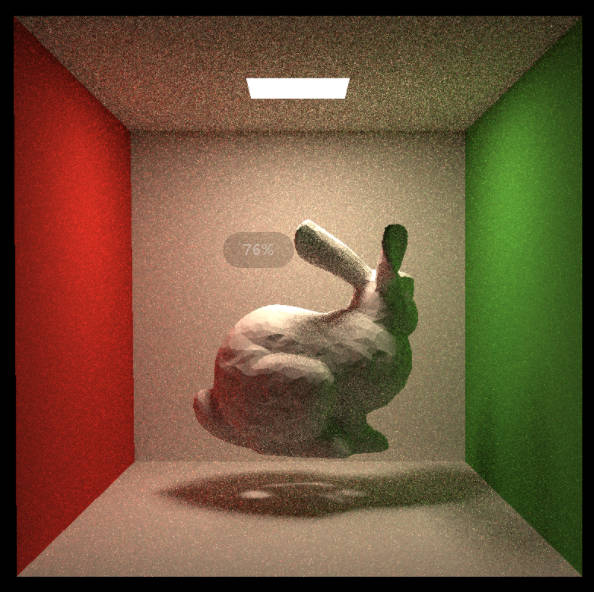
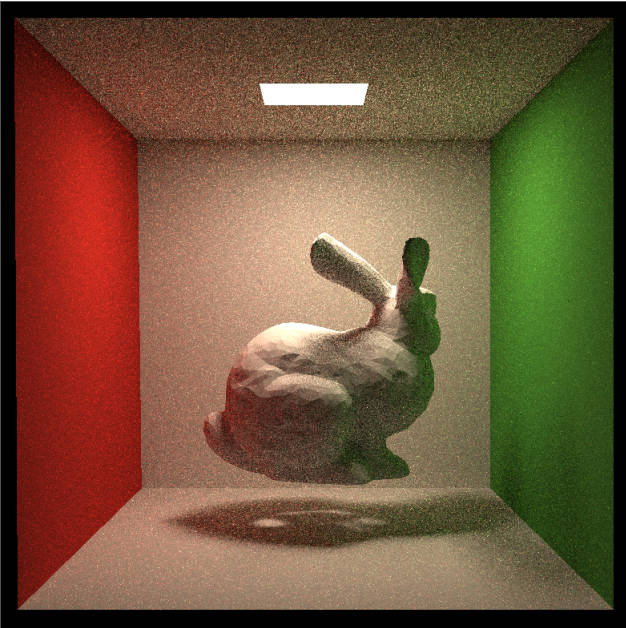
games101第17课和18课开头

diff --git a/_posts/2023-07-26-GAMES101-Lecture 17 Materials and AppearancesGAMES101-Lecture 17 Materials and Appearances.md b/_posts/2023-07-26-GAMES101-Lecture 17 Materials and AppearancesGAMES101-Lecture 17 Materials and Appearances.md
@@ -1,0 +1,184 @@
+---
+title: GAMES101-Lecture 17 Materials and Appearances
+date: 2023-07-26 11:30:00 +0800
+categories: [Computer Graphics, GAMES101]
+tags: [图形学, 学习笔记]
+
+pin: false
+author: 
+    name: CALL1CE
+    link: https://space.bilibili.com/9330604
+toc: true
+comments: true
+math: true
+mermaid: true
+
+---
+
+## Material == BRDF
+
+* 材质就是：一个表面怎么被反射的
+
+[![pCjNktO.jpg](https://s1.ax1x.com/2023/07/26/pCjNktO.jpg)](https://imgse.com/i/pCjNktO)
+
+### Diffuse/Lambertian Material
+
+* 满足能量守恒，假设一个着色点均匀地吸收多少能量就均匀地发出多少能量即radiance==irradiance
+
+* 然后经过推导，算出BRDF也就是f_r是$1/\pi$，这就是不吸收任何能量的BRDF
+
+* 我们设定一个变量$\rho$为albedo反射率，范围是[0,1]
+
+
+
+### Glossy Material
+
+* 金属类的材质，不会均匀反射而是往一个大致方向反射
+
+[![pCjNFAK.jpg](https://s1.ax1x.com/2023/07/26/pCjNFAK.jpg)](https://imgse.com/i/pCjNFAK)
+
+### Perfect Specular Reflection
+
+* 完美反射
+
+* 方位角差$\pi$
+
+[![pCjN9n1.jpg](https://s1.ax1x.com/2023/07/26/pCjN9n1.jpg)](https://imgse.com/i/pCjN9n1)
+
+### Specular Refraction - Snell's Law
+
+[![pCjNP76.jpg](https://s1.ax1x.com/2023/07/26/pCjNP76.jpg)](https://imgse.com/i/pCjNP76)
+
+* 折射定律
+
+* 根据折射率可以算出折射角
+
+* 方位角差$\pi$
+
+* 当入射的介质折射率大于折射的介质折射率就可能会出现没有折射，那么就是全反射
+
+[![pCjNSXR.jpg](https://s1.ax1x.com/2023/07/26/pCjNSXR.jpg)](https://imgse.com/i/pCjNSXR)
+
+* 反射(BRDF)和折射(BTDF)可以统称BSDF，S代表的是散射
+
+### Fresnel Reflection/Term(菲涅尔项)
+
+[![pCjNC0x.jpg](https://s1.ax1x.com/2023/07/26/pCjNC0x.jpg)](https://imgse.com/i/pCjNC0x)
+
+* 入射光和物体表面法线的夹角越大，越多的光被反射，夹角越小，越多的光被折射而很少被反射
+  
+  * 比如一个实际的例子，在车里，后排乘客看前车玻璃看到的是车内司机，看后车玻璃看到的是车外景
+
+[![pCjtzc9.jpg](https://s1.ax1x.com/2023/07/26/pCjtzc9.jpg)](https://imgse.com/i/pCjtzc9)
+
+* 极化现象，但一般光是由s极化和p极化组成的（也叫s偏振和p偏振）
+
+* 但对于导体而言，菲涅尔项不管角度如何都是很高的，也就是反射的光很多，这也是为什么会古代用铜和银做镜子
+
+[![pCjQLDS.jpg](https://s1.ax1x.com/2023/07/26/pCjQLDS.jpg)](https://imgse.com/i/pCjQLDS)
+
+* 菲涅尔项公式，n1入射介质系数（折射率），n2折射介质系数，但公式太复杂，所以有了下面的简化公式
+
+[![pCjQqu8.jpg](https://s1.ax1x.com/2023/07/26/pCjQqu8.jpg)](https://imgse.com/i/pCjQqu8)
+
+* Schlick's approximation：主旨就是拟合一条曲线，从一个值到1，绝缘体就从很小的数比如0开始，导体就从比较大的数开始，比如0.9，正常情况下，是个不错的近似
+  
+  * 导体的折射率是负数，所以还要一个k系数
+
+## Microfacet Material(PBR)
+
+* 当我们距离很远看一个物体表面时，很多微小的东西就看不到，最终能看到的是，表面对光的一个总体作用
+
+* 每一个微表面理解成一个微小的镜面
+
+* 也就是说，微表面模型，从远处看是材质外观，从近处看是几何
+
+[![pCjQHjf.jpg](https://s1.ax1x.com/2023/07/26/pCjQHjf.jpg)](https://imgse.com/i/pCjQHjf)
+
+### Microfacet BRDF
+
+* 对于glossy材质，比较平，法线基本都朝上，所以法线会宏观得聚集在向上的一个小范围
+
+* 对于diffuse材质，法线在方向上散的就比较开，所以分布范围就很广
+
+[![pCjQ7gP.jpg](https://s1.ax1x.com/2023/07/26/pCjQ7gP.jpg)](https://imgse.com/i/pCjQ7gP)
+
+* BRDF:
+  
+  * F(Fresnel term)：首先考虑一个菲涅尔项（也就是说能反射多少光出来）
+  
+  * D(distribution of normals)：法线分布，就是解决，有多少微表面能把光从wi反射到wo，因为只有微表面的法线方向和半程向量一致时，才会反射（把微表面当成镜子），所以就是D(h)，在h方向上法线分布的一个查询
+  
+  * G(shadowing-masking term)：自阴影，有一些微表面被另一些微表面挡住了，而失去了它们反射光的作用，在入射光几乎是平着打在平面上时，最容易发生这个现象，我们称这个角度为**grazing angle**
+
+[![pCjQT3t.jpg](https://s1.ax1x.com/2023/07/26/pCjQT3t.jpg)](https://imgse.com/i/pCjQT3t)
+
+* 微表面模型问题：diffuse项很少，有时人们要认为添加一些漫反射
+
+* 有很多微表面模型
+
+## Isotropic(各向同性)/Anisotropic(各向异性) Materials(BRDFs)
+
+* 各向同性：微表面并不存在一定的方向性，或者方向性很弱
+
+* 各向异性：微表面有方向性
+
+[![pCjQo9I.jpg](https://s1.ax1x.com/2023/07/26/pCjQo9I.jpg)](https://imgse.com/i/pCjQo9I)
+
+* 各向异性定义：如果入射出射角不变，只有方位角旋转，看到的BRDF不一样那就是各向异性的材质，反之如果一样就是各向同性的材质
+
+[![pCjQ54A.jpg](https://s1.ax1x.com/2023/07/26/pCjQ54A.jpg)](https://imgse.com/i/pCjQ54A)
+
+### Anisotropic Brushed Metal
+
+[![pCjQWHe.jpg](https://s1.ax1x.com/2023/07/26/pCjQWHe.jpg)](https://imgse.com/i/pCjQWHe)
+
+### Anisotropic BRDF: Nylon
+
+[![pCjQhAH.jpg](https://s1.ax1x.com/2023/07/26/pCjQhAH.jpg)](https://imgse.com/i/pCjQhAH)
+
+### Anisotropic BRDF: Velvet
+
+[![pCjQ4Nd.jpg](https://s1.ax1x.com/2023/07/26/pCjQ4Nd.jpg)](https://imgse.com/i/pCjQ4Nd)
+
+## Properties of BRDFs
+
+* 非负，他表示的是能量的分布
+
+* 线性分布，可以拆成很多块，然后加起来
+
+* 可逆性，入射方向和出射方向调换得到的brdf一模一样
+
+* 能量守恒，能量不可能变多
+
+* 各向同性和各向异性
+  
+  * 如果是各项同性的材质，维度降低了一维
+
+[![pCjQy1x.jpg](https://s1.ax1x.com/2023/07/26/pCjQy1x.jpg)](https://imgse.com/i/pCjQy1x)
+
+## Measuring BRDFs
+
+### Image-Based gonioreflectometer
+
+[![pCjQ6c6.jpg](https://s1.ax1x.com/2023/07/26/pCjQ6c6.jpg)](https://imgse.com/i/pCjQ6c6)
+
+[![pCjQcjK.jpg](https://s1.ax1x.com/2023/07/26/pCjQcjK.jpg)](https://imgse.com/i/pCjQcjK)
+
+* 枚举所有的出射方向和入射方向进行测量
+
+[![pCjQ2nO.jpg](https://s1.ax1x.com/2023/07/26/pCjQ2nO.jpg)](https://imgse.com/i/pCjQ2nO)
+
+* 提升效率的一些方法
+  
+  * 各向同性降维
+  
+  * 可逆性，砍半
+  
+  * 采样若干点后其他点进行猜测
+
+### Representing Measuring BRDFs
+
+* Tabular Representing
+
+[![pCjQRBD.jpg](https://s1.ax1x.com/2023/07/26/pCjQRBD.jpg)](https://imgse.com/i/pCjQRBD)

diff --git a/_posts/2023-07-27-GAMES101-Lecture 18 Advanced Topics in Rendering.md b/_posts/2023-07-27-GAMES101-Lecture 18 Advanced Topics in Rendering.md
@@ -1,0 +1,98 @@
+---
+title: GAMES101-Lecture 18 Advanced Topics in Rendering
+date: 2023-07-27 11:30:00 +0800
+categories: [Computer Graphics, GAMES101]
+tags: [图形学, 学习笔记]
+
+pin: false
+author: 
+    name: CALL1CE
+    link: https://space.bilibili.com/9330604
+toc: true
+comments: true
+math: true
+mermaid: true
+
+---
+
+## Advanced Light Transport
+
+### Unbiased light transport methods
+
+* Unbiased无偏的，如果得到的期望是最后要的值一样，那就是无偏的
+
+* biased有偏的
+
+#### Bidirectional path tracing (BDPT)
+
+* 摄像机打出一条光线后反射，光源打出一条光线，将两个端点连接起来
+
+* 这个方法对于接受间接光的场景很好
+
+* 缺点：
+  
+  * 实现困难
+  
+  * 运行慢
+
+#### Metropolis light transport (MLT)
+
+* A Markov Chain Monte Carlo (MCMC) application
+
+* 当被积函数和概率密度函数的形状一致时，会比较好，这个方法可以生成和被积函数形状相同的pdf
+
+* 这是一个局部的方法，给一个路径生成相似的路径
+
+* 当光路比较复杂的时候，也就是越难的场景，这个方法的效果越好
+
+* 缺点：
+  
+  * 不知道什么时候会收敛
+  
+  * 像素收敛速度不一样，所以有的图像会比较脏
+
+### Biased light transport methods
+
+#### Photon mapping(光子映射)
+
+* 适合做Specular-Diffuse-Specular(SDS)
+
+* 适合做generating caustics
+
+* 第一步，从光源出发，发射光线直到打到diffuse的物体
+
+* 第二步，从摄像机出发，发射光线直到打到diffuse的物体
+
+* 第三步，计算局部的密度估计，光子分布越集中的地方越亮
+  
+  * 对于任何一个着色点，取它周围的最近的n个光子
+  
+  * 除以光子占的面积
+
+* 很少的n，噪声就会很大
+
+* 很大的n，就会变的模糊
+
+* 这就是为什么就是有偏的的方法
+
+* 因为我们该算一个点的密度，但实际算的是一个区域的密度，也就是说对密度的估计是个不对的估计
+
+* 只有覆盖的面积无限小才会对，如果找同样的点数，那么发射的光子越多，越精确，也就是当发射足够多的光子时，就会得到正确的结果，所以这种方法就叫有偏的方法，也叫一致的方法consistent
+
+* 对有偏的一个理解：
+  
+  * 有偏的 == 模糊的
+  
+  * 一致的 == 如果无限采样就不再模糊
+
+#### Vertex connection and merging (VCM)
+
+* 把双向路径追踪和光子映射结合起来
+
+### Instant radiosity (VPL / many light methods)
+
+## Advanced Appearance Modeling
+
+## Non-Surface Models
+
+## Surface Models

diff --git a/_posts/2023-07-21-GAMES101-Lecture 16 Ray Tracing 4 & 作业7.md b/_posts/2023-07-21-GAMES101-Lecture 16 Ray Tracing 4 & 作业7.md
@@ -680,7 +680,7 @@ scene.Add(&bunny);
 
 | Diffuse                                                                                   | Microfacet                                                                                |
 | ----------------------------------------------------------------------------------------- | ----------------------------------------------------------------------------------------- |
-| [![pCXlf6f.jpg](https://s1.ax1x.com/2023/07/25/pCXlf6f.jpg)](https://imgse.com/i/pCXlf6f) | [![pCXlW1P.jpg](https://s1.ax1x.com/2023/07/25/pCXlW1P.jpg)](https://imgse.com/i/pCXlW1P) |
+| [![pCX0WIP.jpg](https://s1.ax1x.com/2023/07/25/pCX0WIP.jpg)](https://imgse.com/i/pCX0WIP) | [![pCXlW1P.jpg](https://s1.ax1x.com/2023/07/25/pCXlW1P.jpg)](https://imgse.com/i/pCXlW1P) |
 
 * 看看bunny的臀部的话，还是能多少看出来一点Microfacet的小小震撼的23333
 
